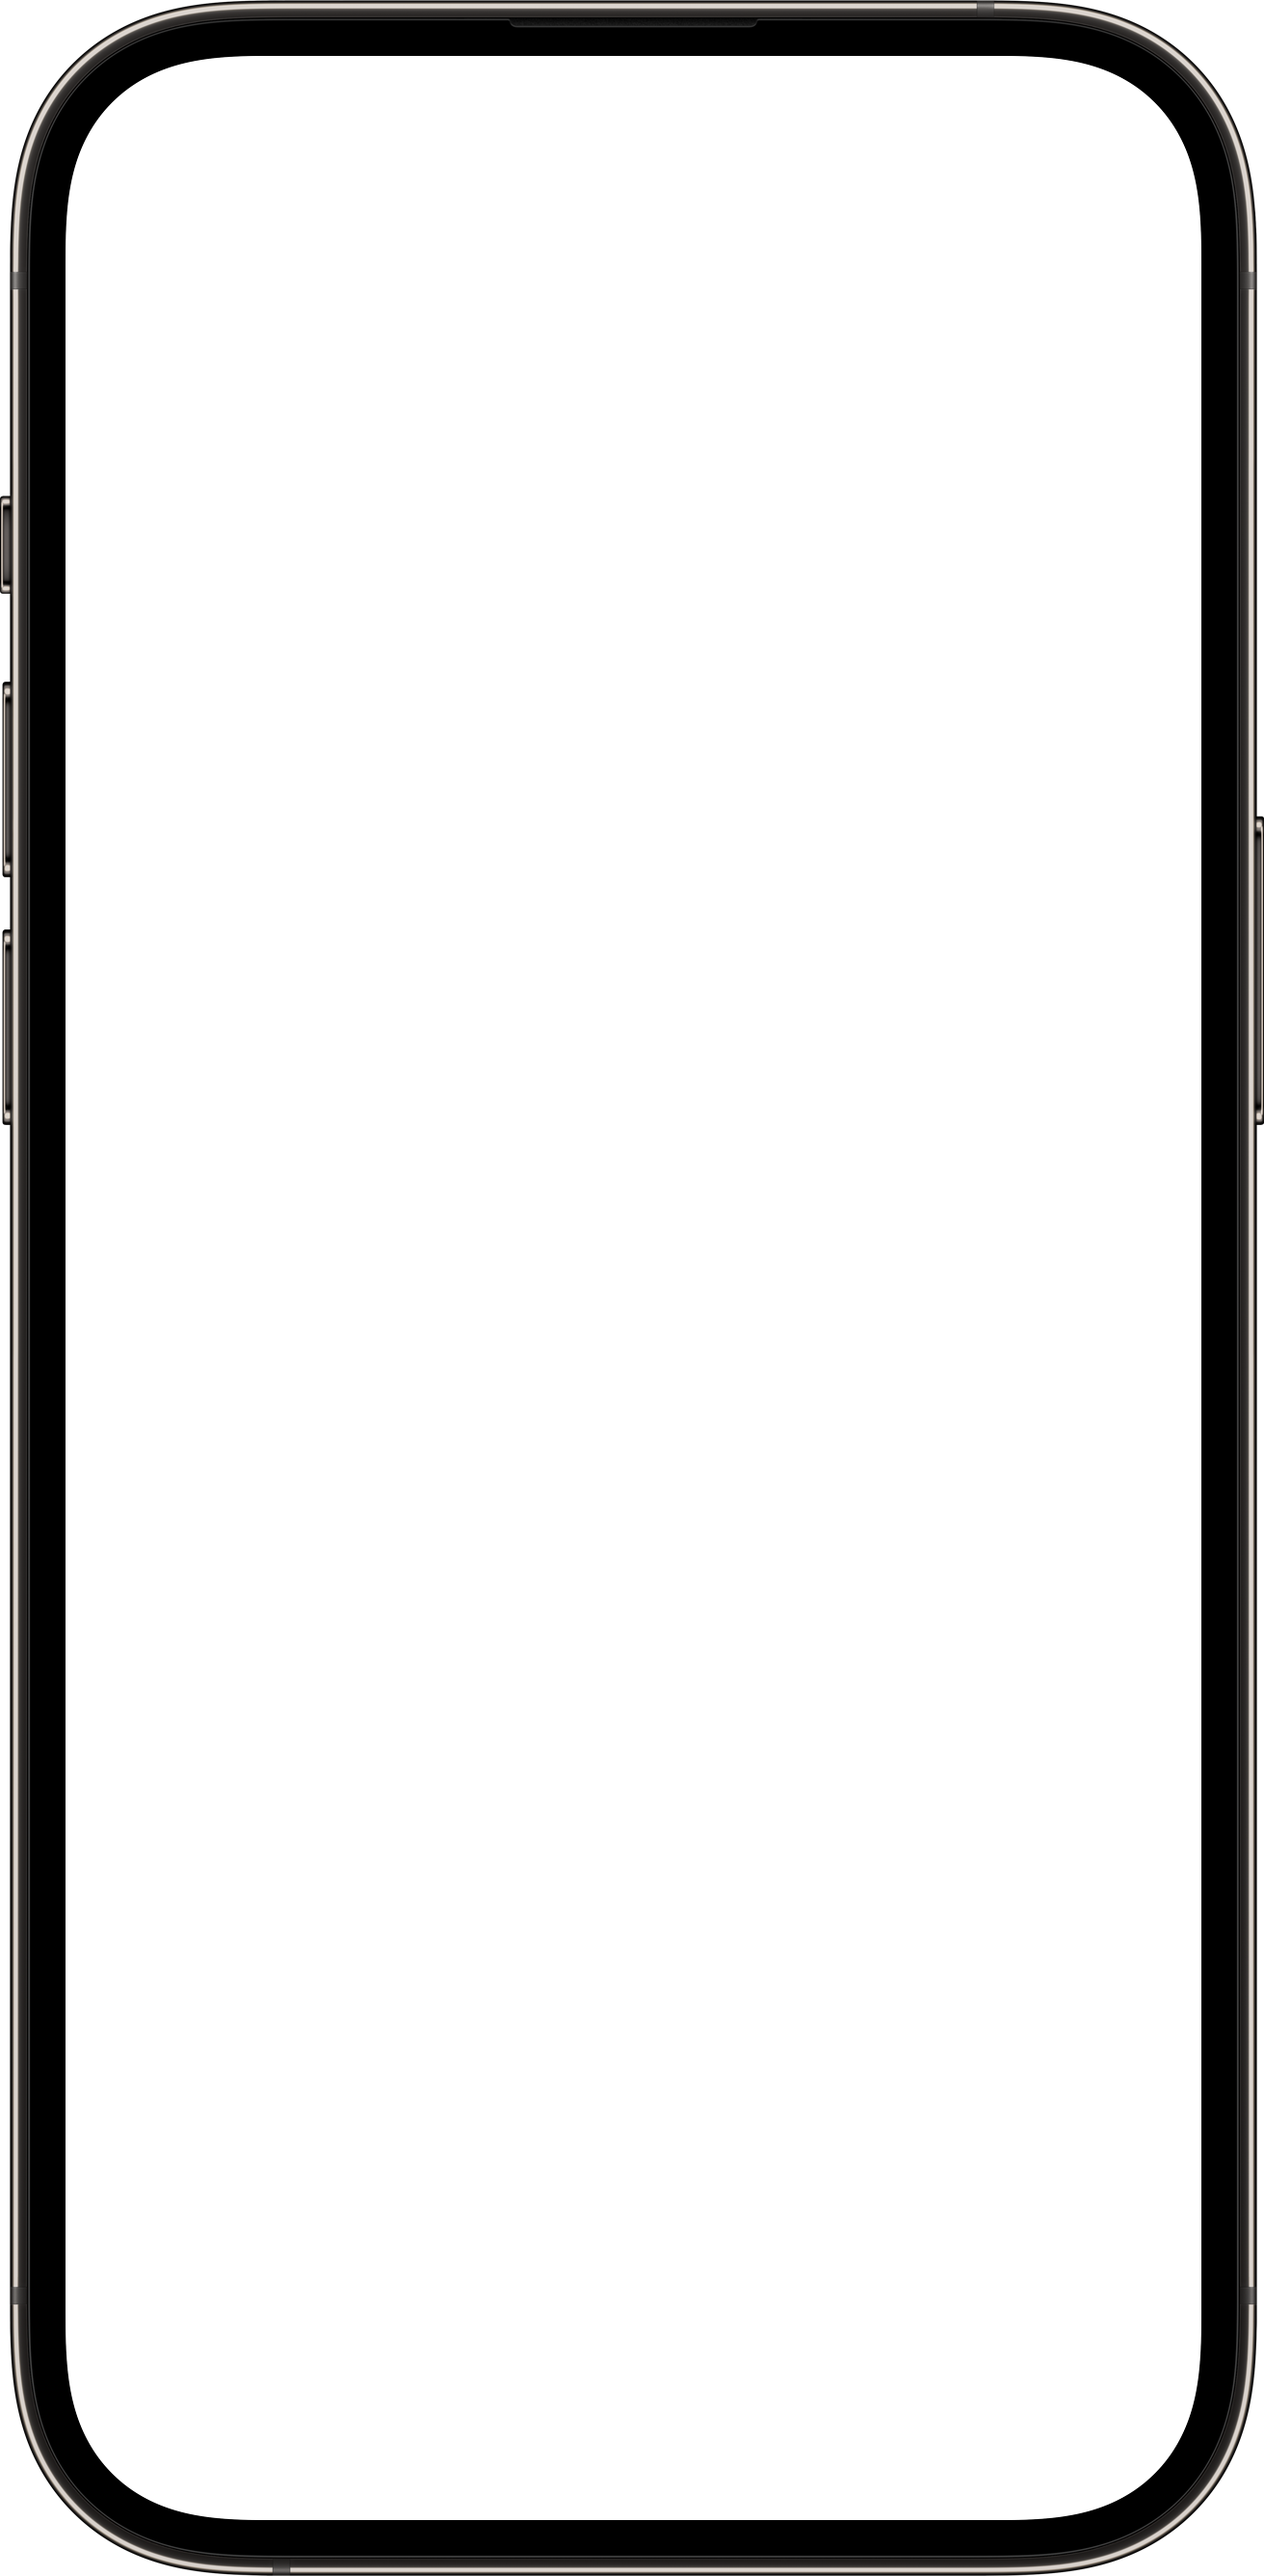
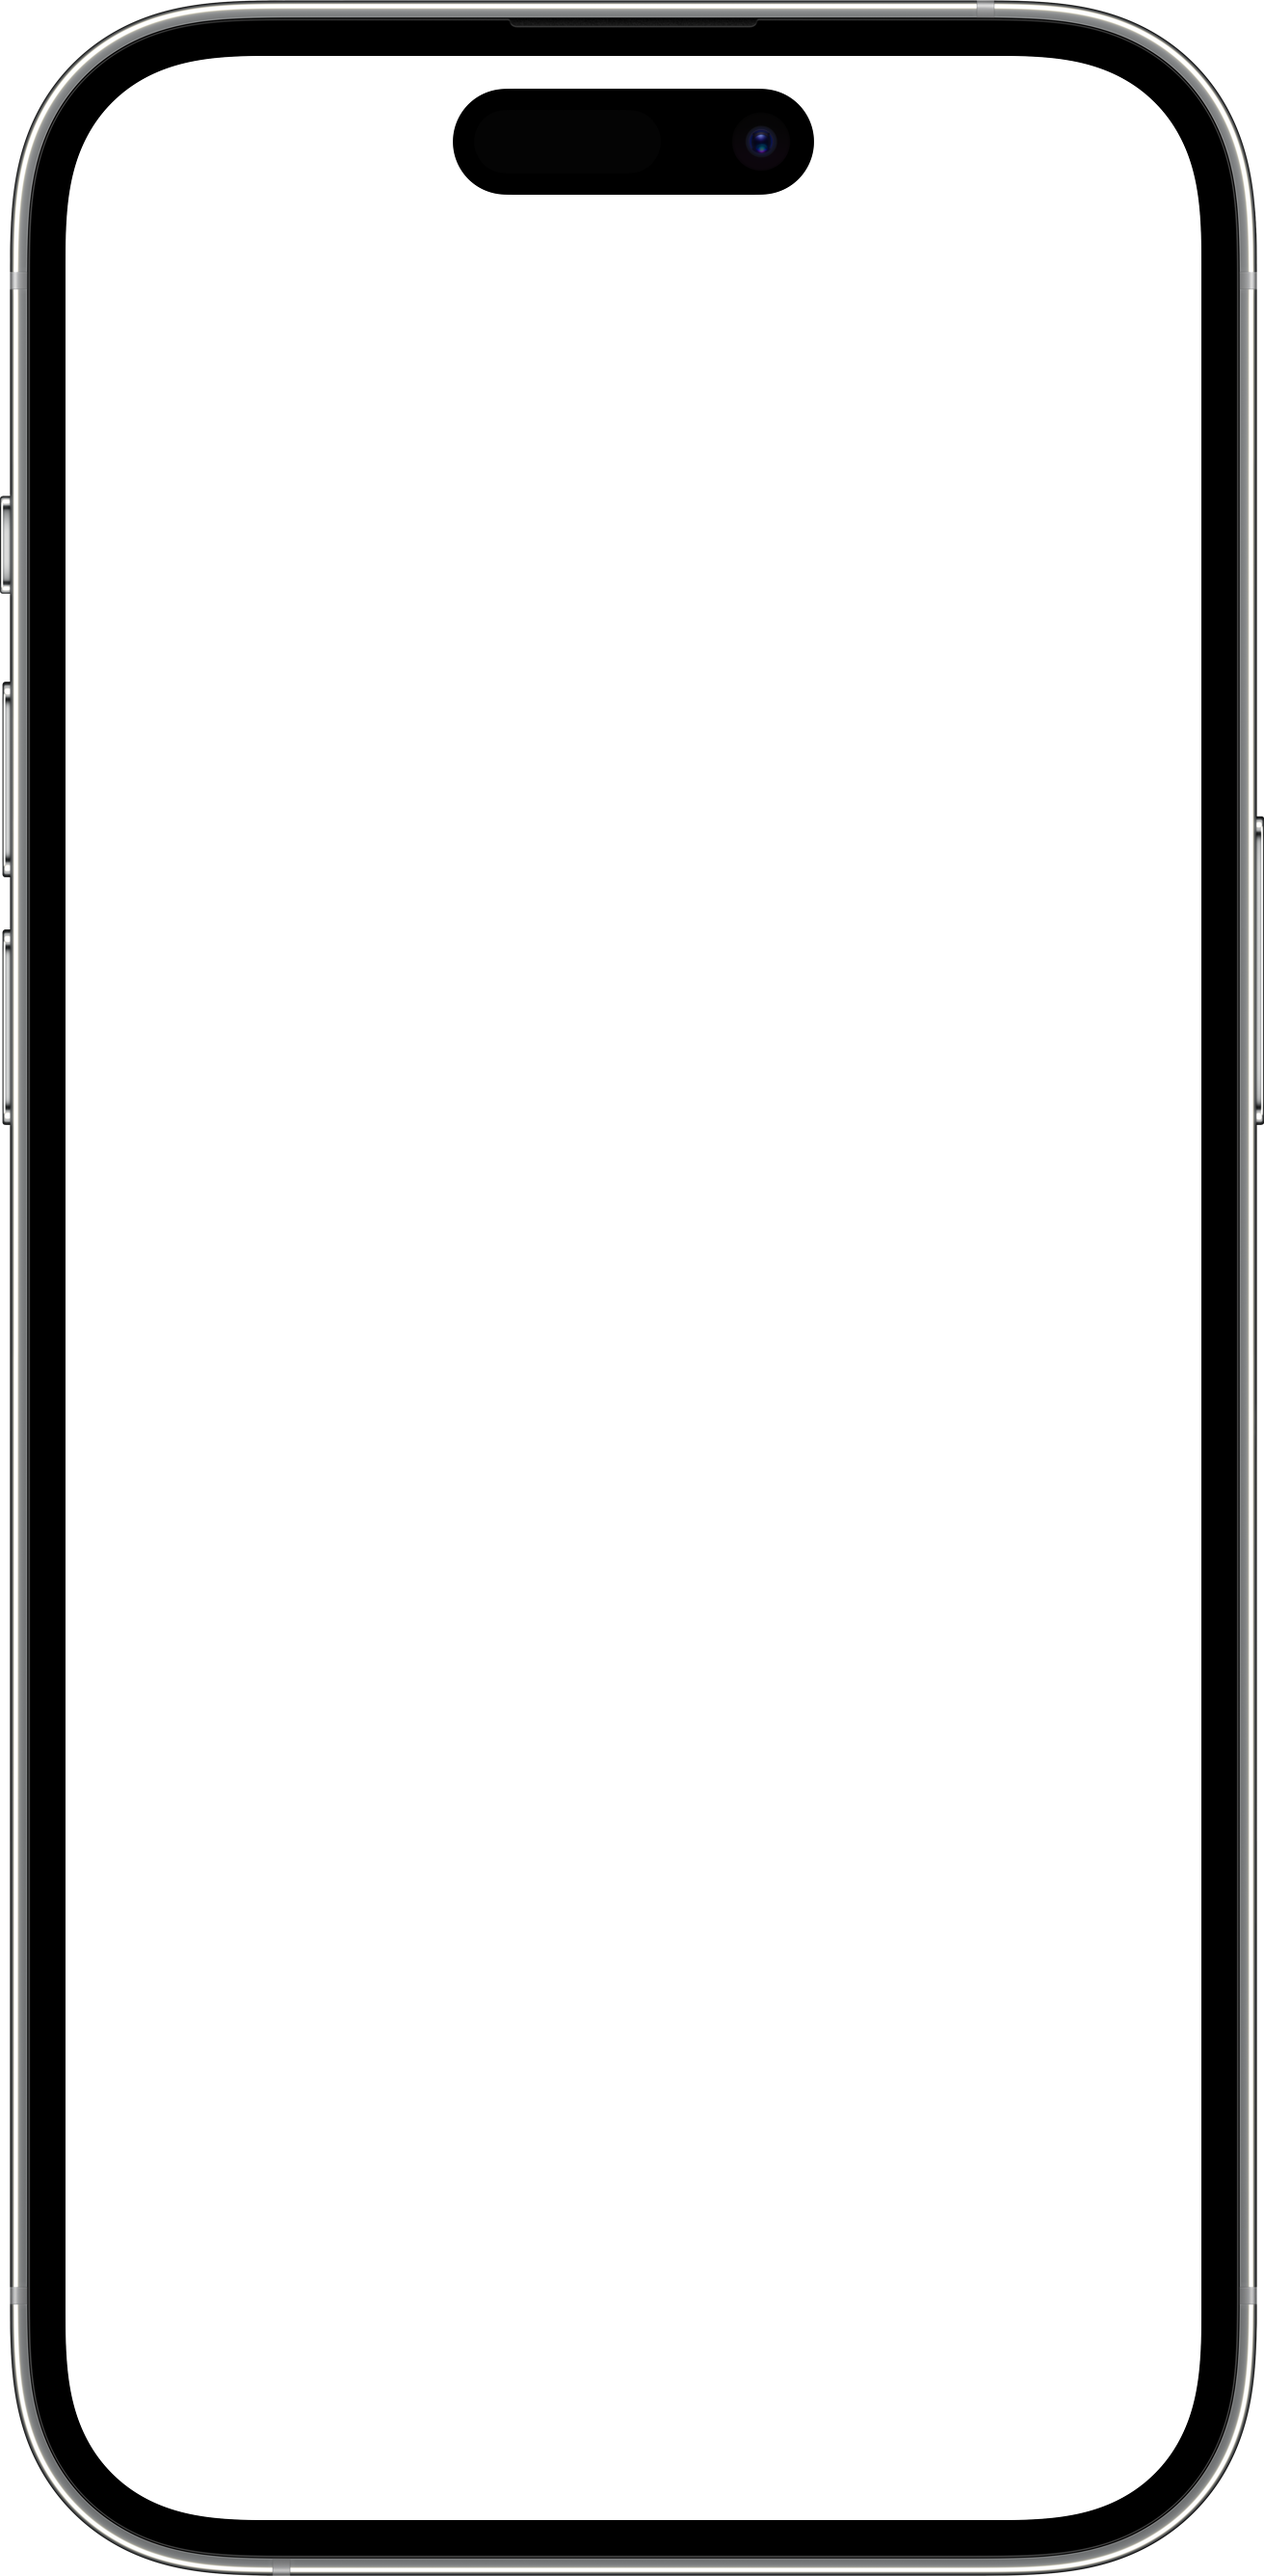
add more mockups

Changed region(s): [[0.0, 0.0311, 1.0, 1.0], [0.0625, 0.0, 0.9375, 0.0932]]

diff --git a/lib/constants/mockups.ts b/lib/constants/mockups.ts
@@ -1,7 +1,5 @@
 export type Mockup = {
-  id: string;
   name: string;
-  imageAbsolute: string;
   imageRelative: string;
   innerWidth: number;
   innerHeight: number;
@@ -11,13 +9,51 @@ export type Mockup = {
 
 export const mockupsDefs = [
   {
-    id: "1",
+    name: "iPhone 13",
+    imageRelative: "/images/mockups/iphone/13/regular.png",
+    innerWidth: 1170,
+    innerHeight: 2532,
+    width: 1314,
+    height: 2658,
+  },
+  {
+    name: "iPhone 13 Pro",
+    imageRelative: "/images/mockups/iphone/13/pro.png",
+    innerWidth: 1170,
+    innerHeight: 2532,
+    width: 1315,
+    height: 2658,
+  },
+  {
+    name: "iPhone 14",
+    imageRelative: "/images/mockups/iphone/14/regular.png",
+    innerWidth: 1170,
+    innerHeight: 2532,
+    width: 1313,
+    height: 2656,
+  },
+  {
     name: "iPhone 14 Pro",
-    imageAbsolute: "/public/images/mockups/iphone/14/pro.png",
     imageRelative: "/images/mockups/iphone/14/pro.png",
     innerWidth: 1179,
     innerHeight: 2556,
     width: 1312,
     height: 2672,
+  },
+  {
+    name: "iPhone 15",
+    imageRelative: "/images/mockups/iphone/15/regular.png",
+    innerWidth: 1179,
+    innerHeight: 2556,
+    width: 1316,
+    height: 2674,
+  },
+  {
+    name: "iPhone 15 Pro",
+    imageRelative: "/images/mockups/iphone/15/pro.png",
+    innerWidth: 1179,
+    innerHeight: 2556,
+    width: 1293,
+    height: 2656,
   },
 ];

diff --git a/app/page.tsx b/app/page.tsx
@@ -219,13 +219,11 @@ export default function Home() {
                         setSelectedAspectRatio(aspectRatios.find((ratio) => ratio.name === event.target.value)!);
                       }}
                     >
-                      <optgroup label="iPhone">
-                        {aspectRatios.map((ratio) => (
-                          <option key={ratio.name} value={ratio.name}>
-                            {ratio.name}
-                          </option>
-                        ))}
-                      </optgroup>
+                      {aspectRatios.map((ratio) => (
+                        <option key={ratio.name} value={ratio.name}>
+                          {ratio.name}
+                        </option>
+                      ))}
                     </select>
 
                     <div className="absolute right-1 text-black/70">
